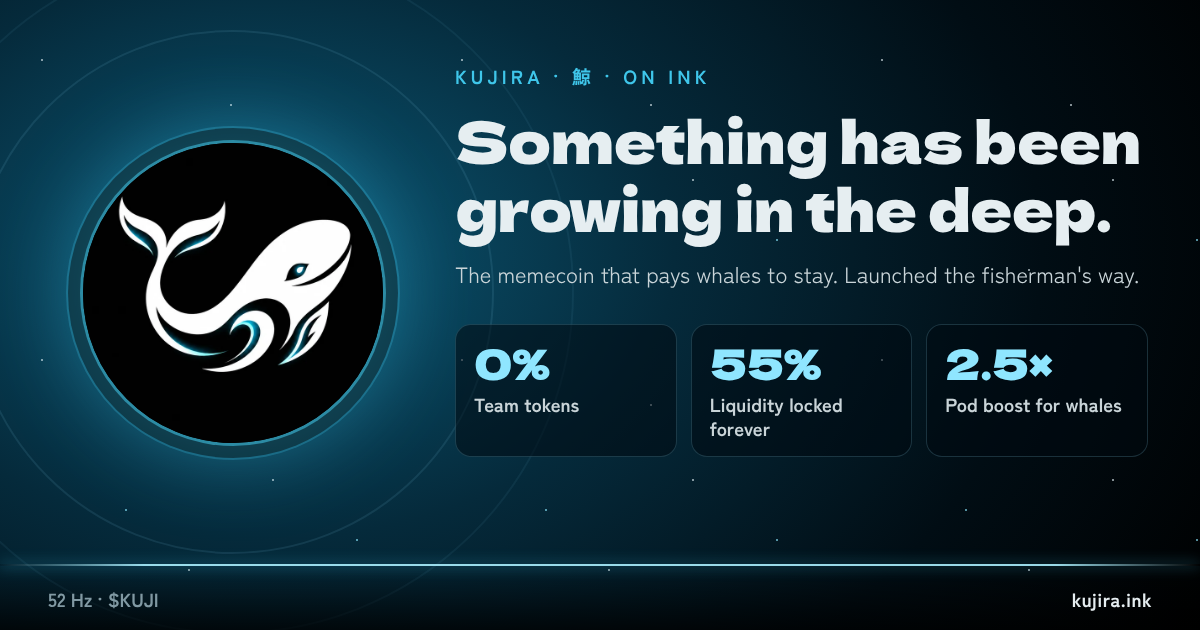
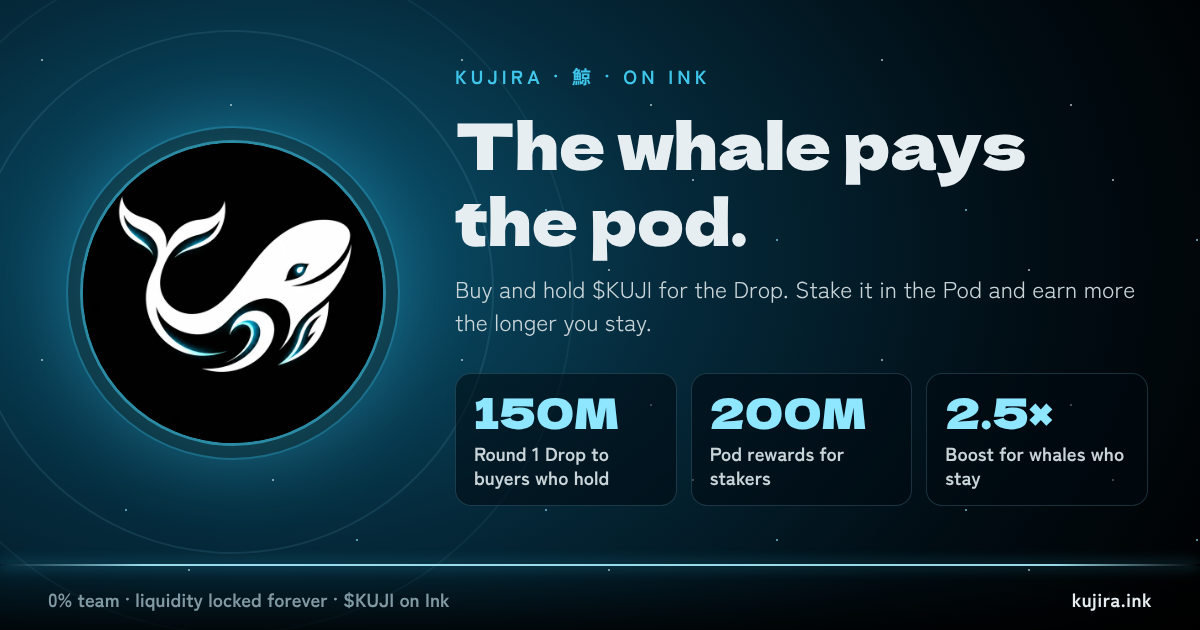
Home link preview: the whale pays the pod
The kujira.ink card now leads with what the community gets: 150M round 1 Drop to buyers
who hold, 200M Pod rewards, 2.5x boost for whales who stay. Title and description match;
the image URL moves to ?v=3 so X fetches it fresh.

Claude-Session: https://claude.ai/code/session_01XxZqz6aMt2Q9VCvZQpjXkg

diff --git a/site/index.html b/site/index.html
@@ -12,18 +12,18 @@
   <meta property="og:type" content="website">
   <meta property="og:url" content="https://kujira.ink/">
   <meta property="og:site_name" content="Kujira">
-  <meta property="og:title" content="Kujira (KUJI) on Ink">
-  <meta property="og:description" content="Something has been growing in the deep.">
-  <meta property="og:image" content="https://kujira.ink/img/og.png?v=2">
+  <meta property="og:title" content="Kujira (KUJI): the whale pays the pod">
+  <meta property="og:description" content="Buy and hold $KUJI for the 150M Drop. Stake it in the Pod for up to 2.5x rewards. 0% team, liquidity locked forever.">
+  <meta property="og:image" content="https://kujira.ink/img/og.png?v=3">
   <meta property="og:image:width" content="1200">
   <meta property="og:image:height" content="630">
-  <meta property="og:image:alt" content="Kujira: something has been growing in the deep.">
+  <meta property="og:image:alt" content="Kujira: the whale pays the pod. 150M Drop to buyers who hold, 200M Pod rewards, 2.5x boost for whales.">
   <meta name="twitter:card" content="summary_large_image">
   <meta name="twitter:site" content="@KujiraToken">
-  <meta name="twitter:title" content="Kujira (KUJI) on Ink">
-  <meta name="twitter:description" content="Something has been growing in the deep.">
-  <meta name="twitter:image" content="https://kujira.ink/img/og.png?v=2">
-  <meta name="twitter:image:alt" content="Kujira: something has been growing in the deep.">
+  <meta name="twitter:title" content="Kujira (KUJI): the whale pays the pod">
+  <meta name="twitter:description" content="Buy and hold $KUJI for the 150M Drop. Stake it in the Pod for up to 2.5x rewards. 0% team, liquidity locked forever.">
+  <meta name="twitter:image" content="https://kujira.ink/img/og.png?v=3">
+  <meta name="twitter:image:alt" content="Kujira: the whale pays the pod. 150M Drop to buyers who hold, 200M Pod rewards, 2.5x boost for whales.">
   <link rel="stylesheet" href="style.css">
 </head>
 <body>

diff --git a/brand/templates.html b/brand/templates.html
@@ -104,16 +104,16 @@
   <div class="medal" style="width:300px;height:300px;left:80px;top:140px"><img src="../site/img/mark-800.webp"></div>
   <div style="position:absolute;left:455px;top:62px;right:52px">
     <p class="eyebrow">Kujira · 鯨 · on Ink</p>
-    <h1 class="big" style="font-size:58px;margin-top:16px">Something has been growing in the deep.</h1>
-    <p style="font-size:22px;margin-top:16px;color:var(--text);line-height:1.45">The memecoin that pays whales to stay. Launched the fisherman's way.</p>
+    <h1 class="big" style="font-size:64px;margin-top:16px">The whale pays<br>the pod.</h1>
+    <p style="font-size:23px;margin-top:16px;color:var(--text);line-height:1.45">Buy and hold $KUJI for the Drop. Stake it in the Pod and earn more the longer you stay.</p>
     <div class="stats">
-      <div class="stat"><b>0%</b><span>Team tokens</span></div>
-      <div class="stat"><b>55%</b><span>Liquidity locked forever</span></div>
-      <div class="stat"><b>2.5×</b><span>Pod boost for whales</span></div>
+      <div class="stat"><b>150M</b><span>Round 1 Drop to buyers who hold</span></div>
+      <div class="stat"><b>200M</b><span>Pod rewards for stakers</span></div>
+      <div class="stat"><b>2.5×</b><span>Boost for whales who stay</span></div>
     </div>
   </div>
   <div class="hz"></div>
-  <div class="bar"><span>52 Hz · $KUJI</span><b>kujira.ink</b></div>
+  <div class="bar"><span>0% team · liquidity locked forever · $KUJI on Ink</span><b>kujira.ink</b></div>
 </div>
 
 <div class="board snow og" id="og-whalepaper">
